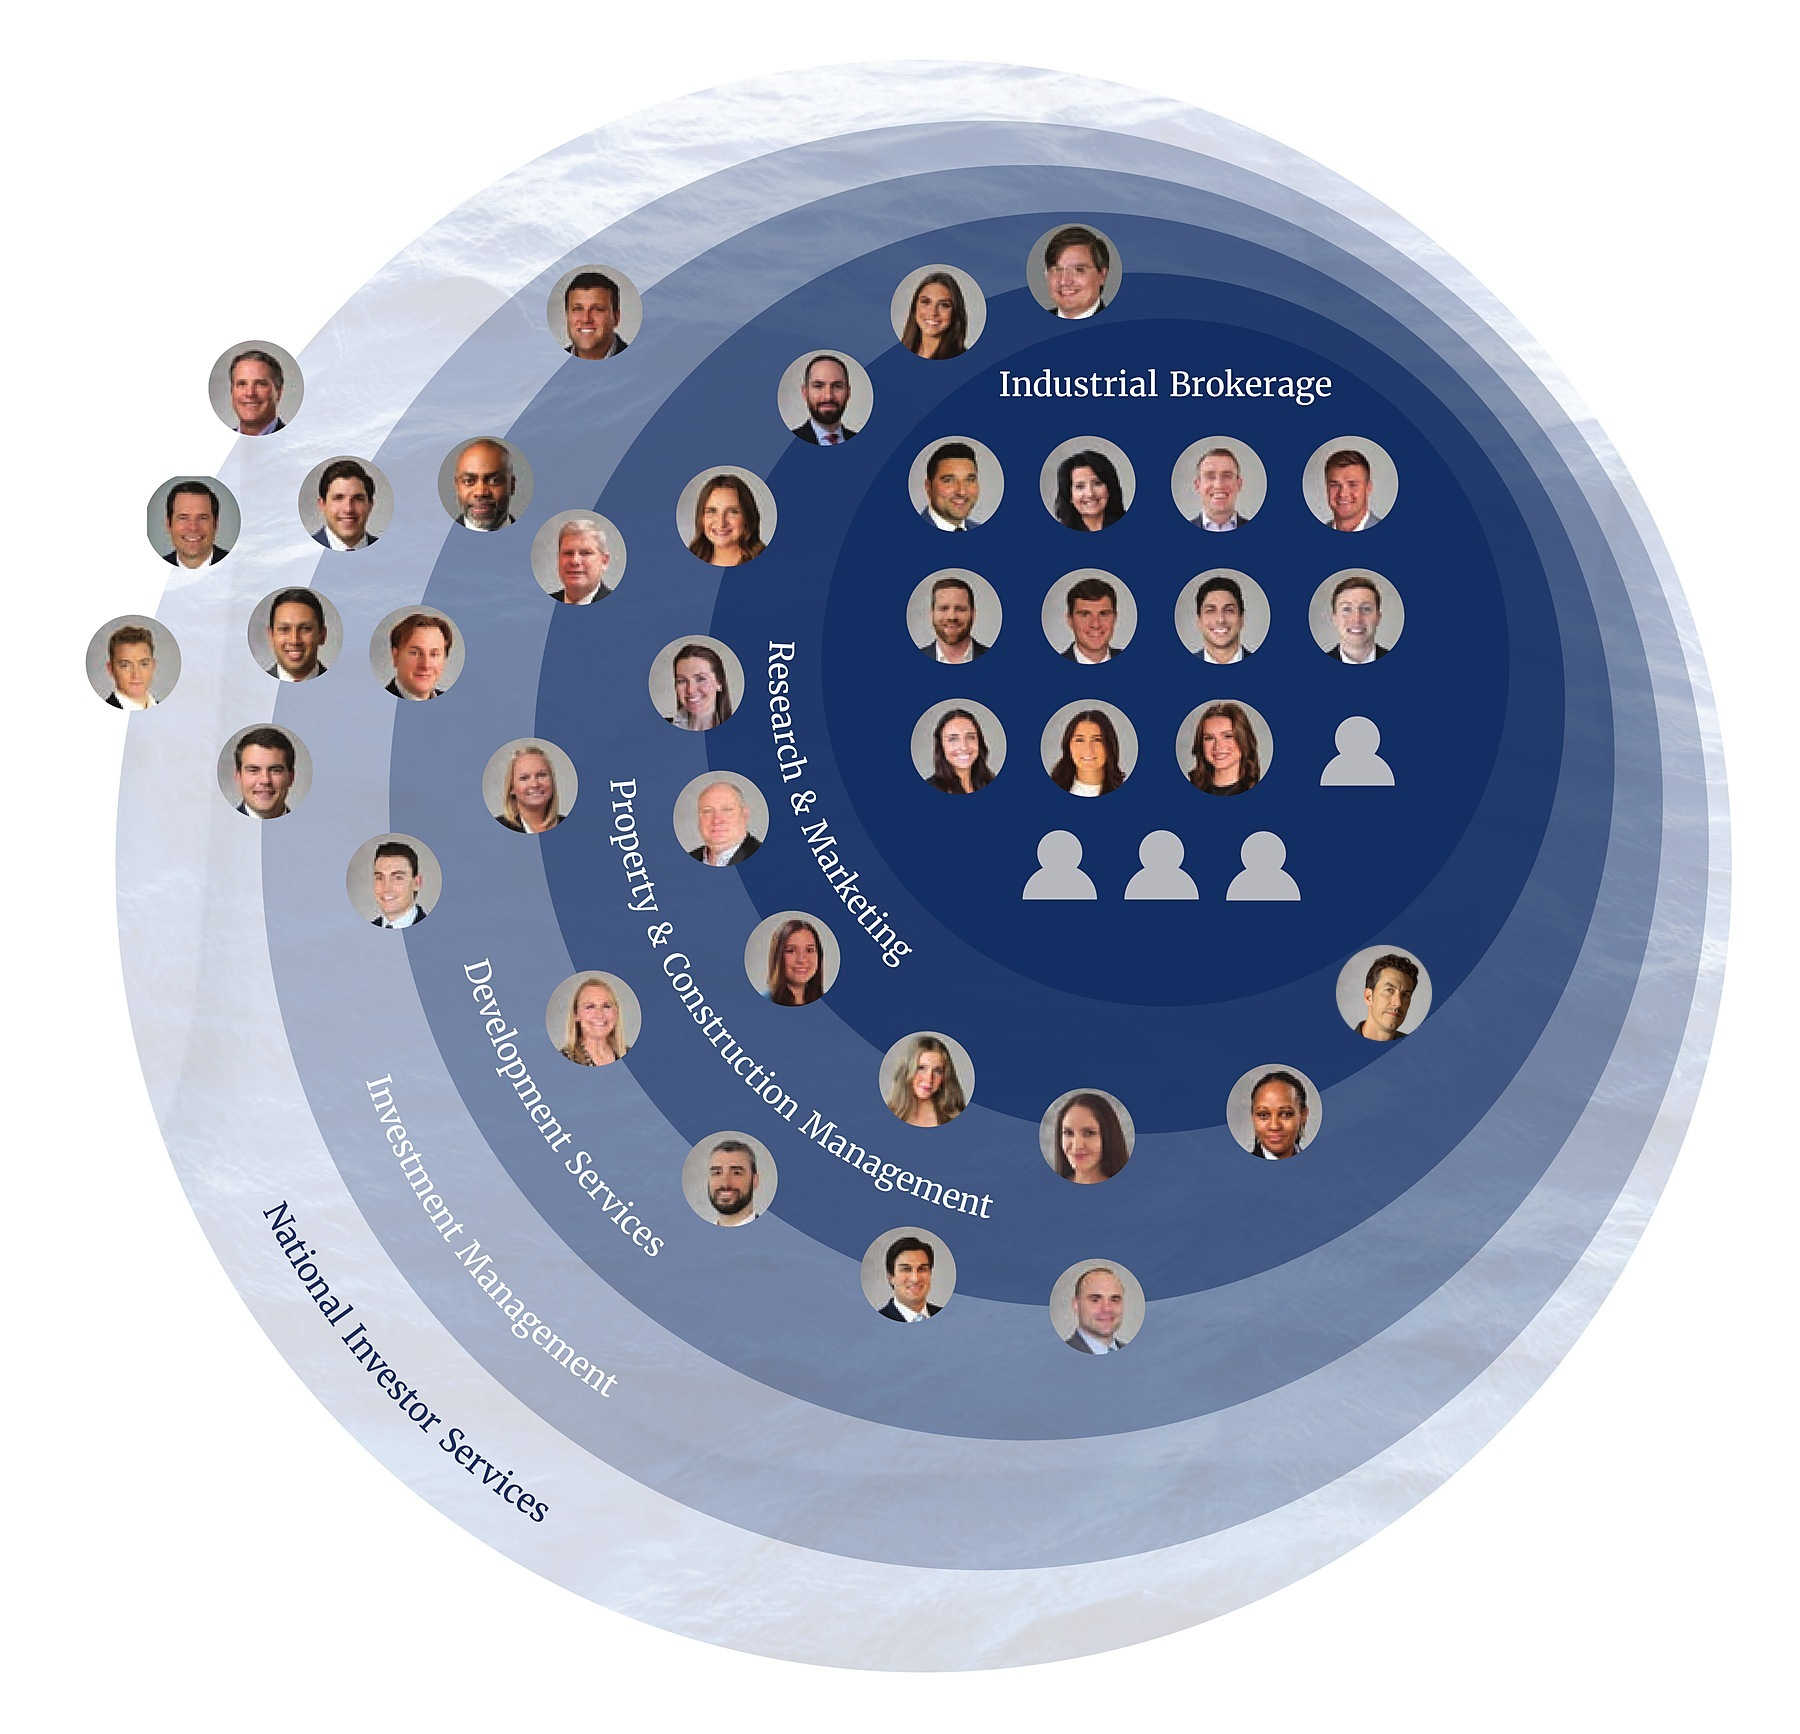
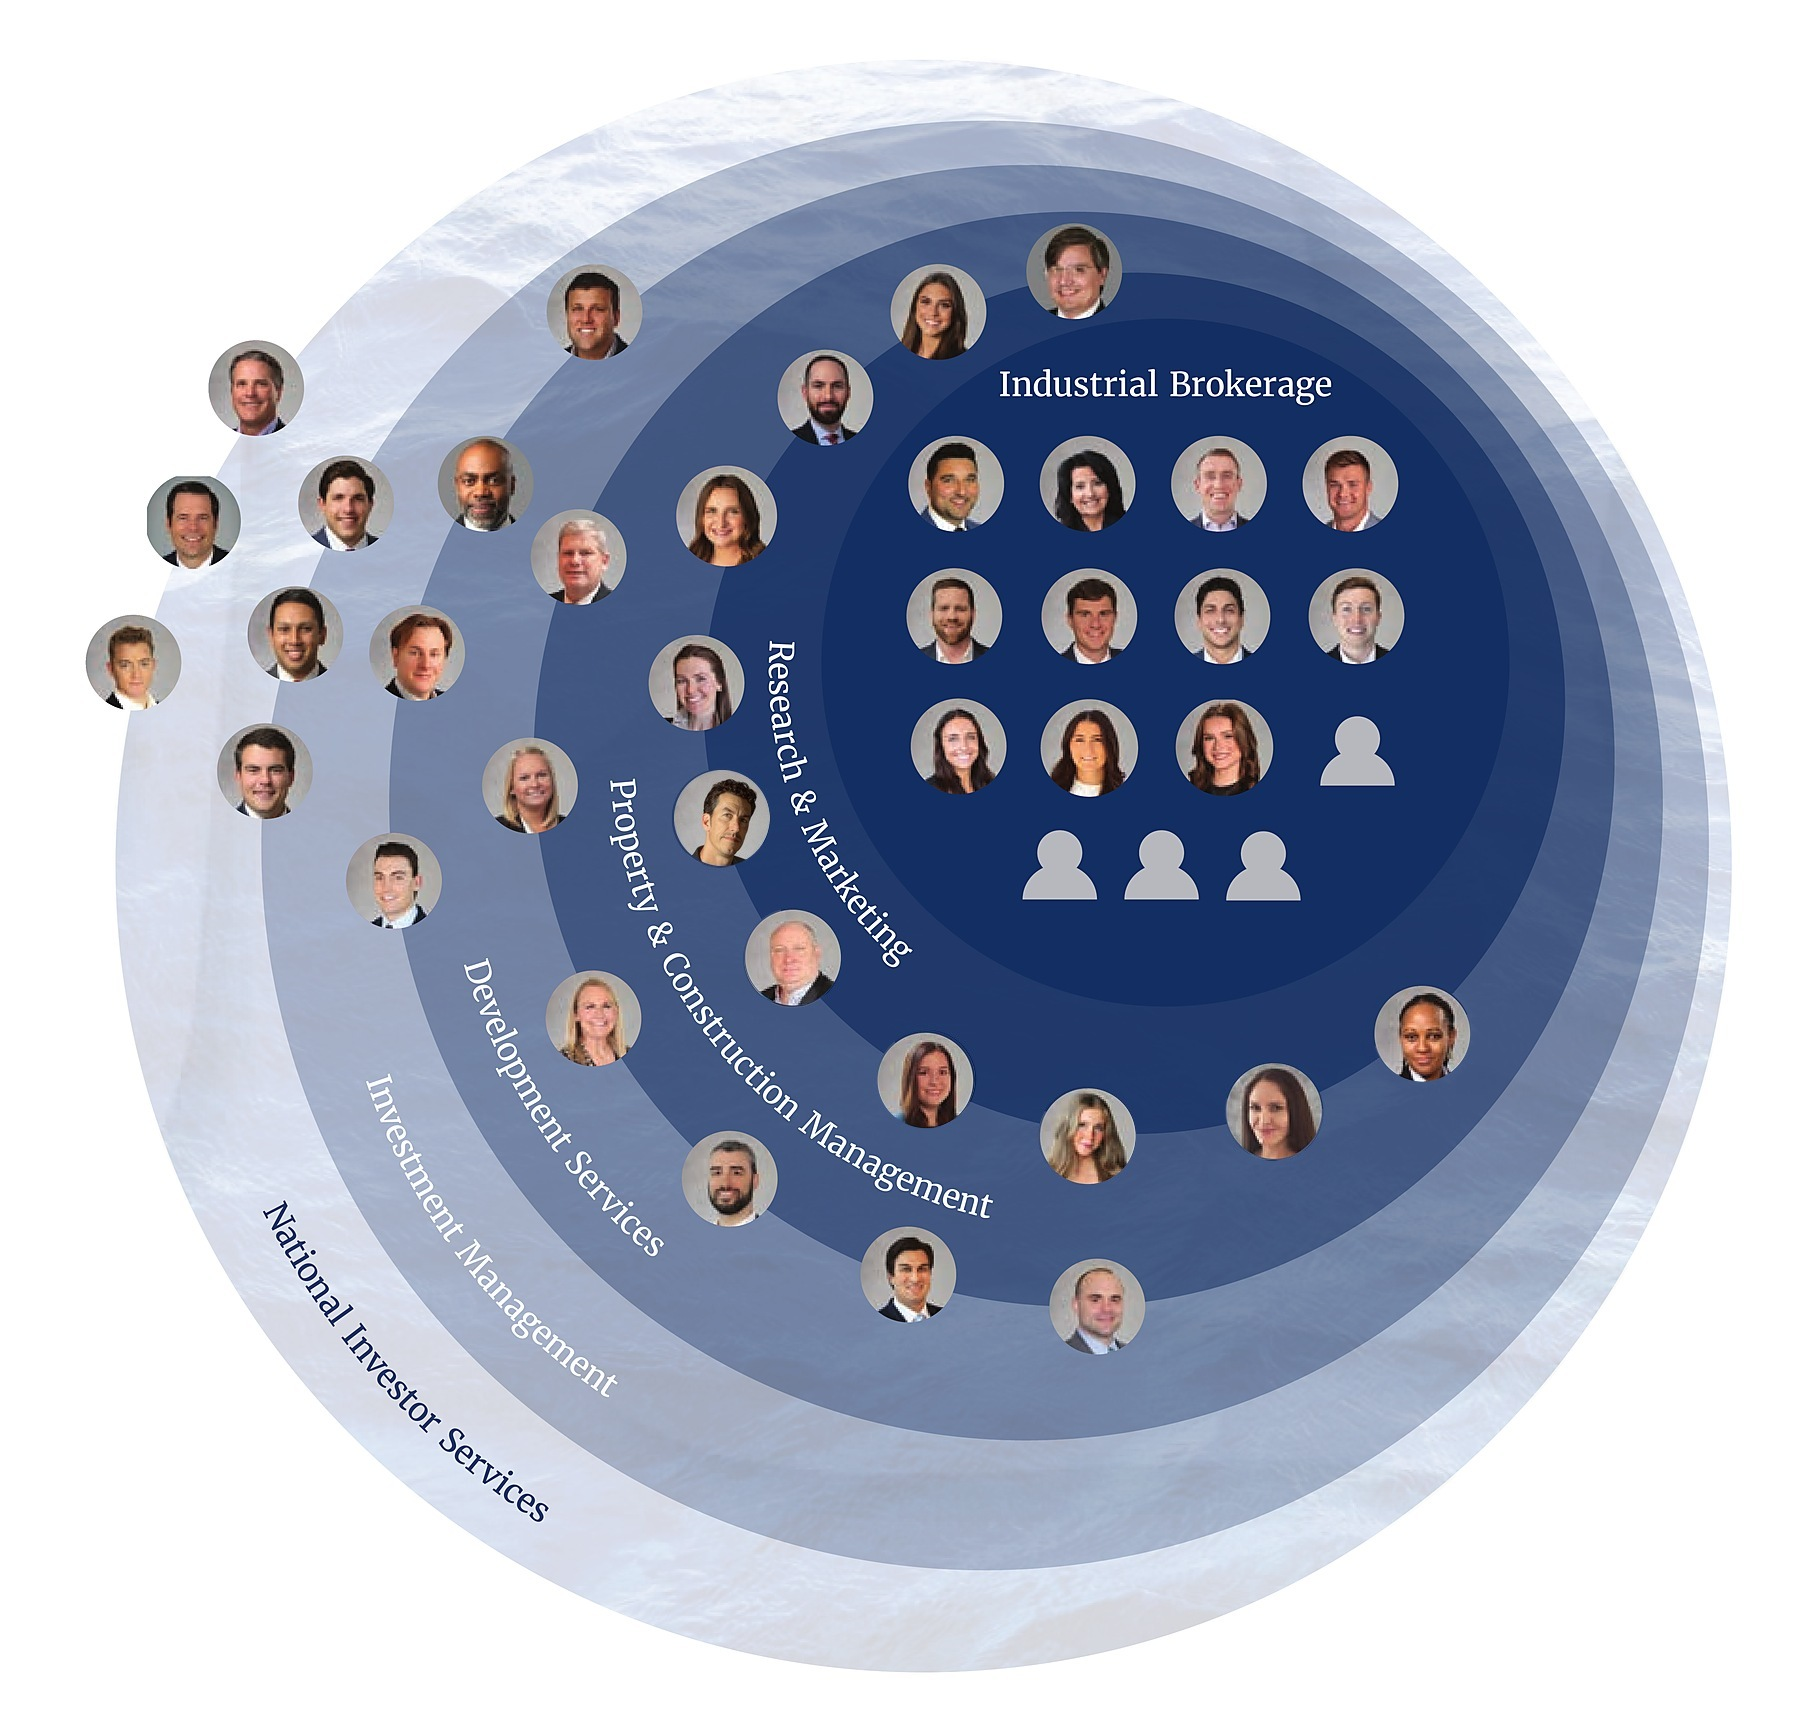
Move Jason Thompson directly under face 26 in the circle
Shift the faces after her one place along the same arc so Jason sits
right below her; the last face takes Tony Collet's former spot.

Claude-Session: https://claude.ai/code/session_013rjN9eXsQUGtogBW2y87jx

diff --git a/presentations/2600-s-25th-broadview/index.html b/presentations/2600-s-25th-broadview/index.html
@@ -141,7 +141,7 @@
           </ol>
         </div>
         <figure class="numbers__org">
-          <img src="img/org-circle.jpg?v=3" alt="Stream Chicago platform: Industrial Brokerage, Research &amp; Marketing, Property &amp; Construction Management, Development Services, Investment Management and National Investor Services" width="1800" height="1734" loading="lazy">
+          <img src="img/org-circle.jpg?v=4" alt="Stream Chicago platform: Industrial Brokerage, Research &amp; Marketing, Property &amp; Construction Management, Development Services, Investment Management and National Investor Services" width="1800" height="1734" loading="lazy">
         </figure>
       </div>
       <div class="water-band" aria-hidden="true"></div>
